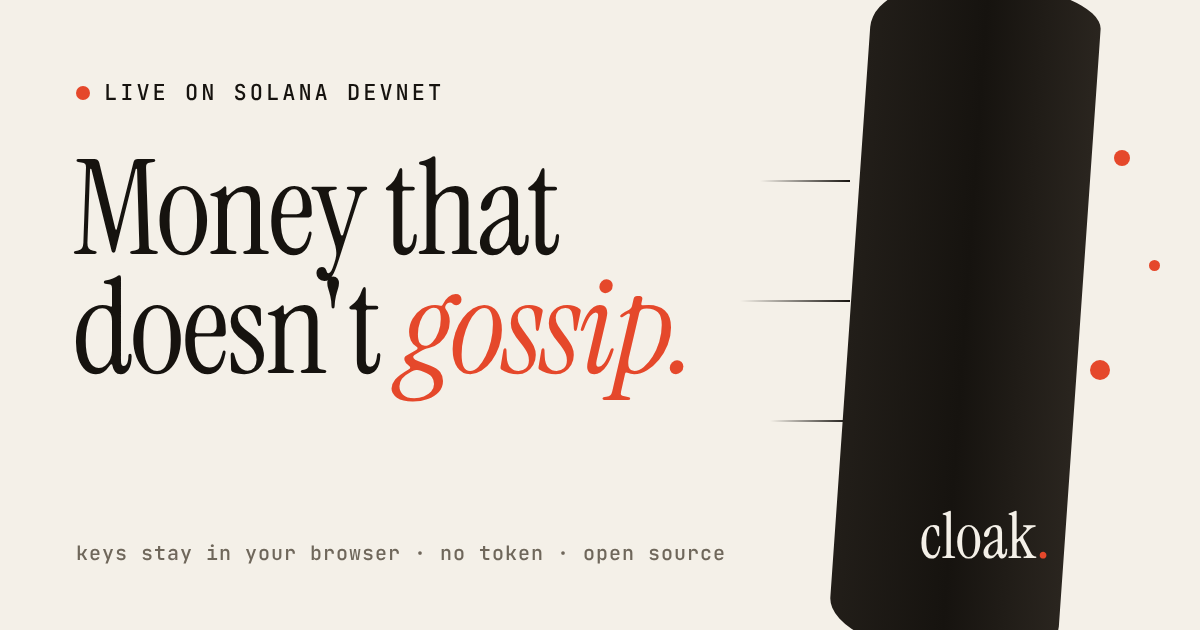
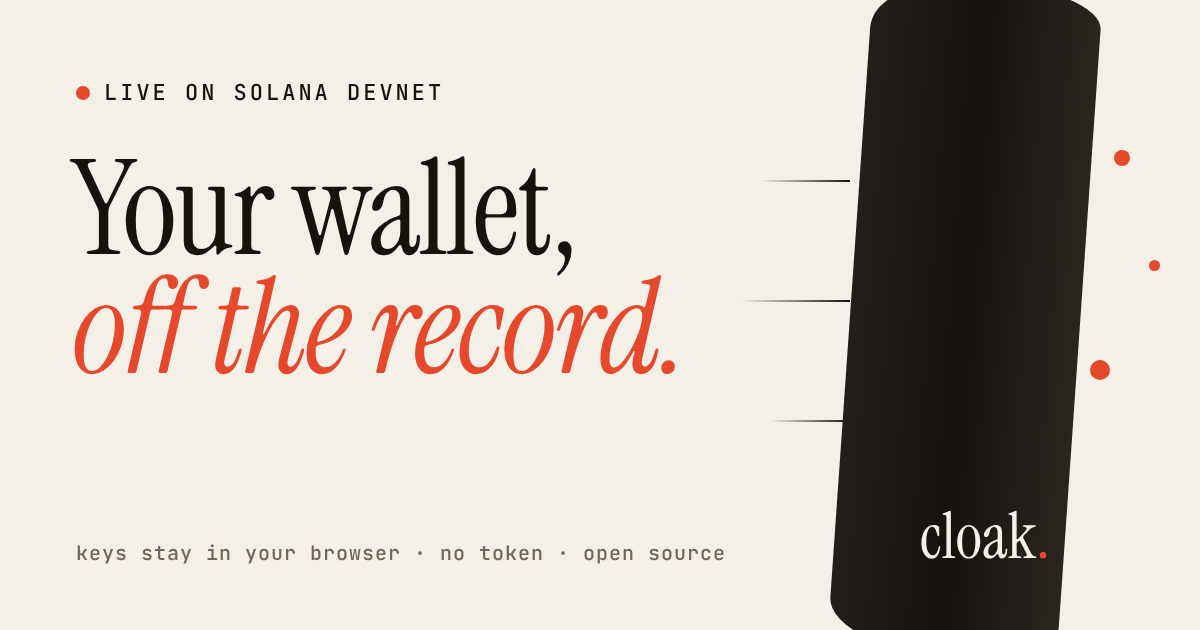
New headline, config.js for RPC/token/socials, Vercel + Railway deploy
- Headline: "Your wallet, off the record."
- assets/config.js: public settings (RPC link, pump.fun ticker + CA, socials)
- Token section, nav copy-CA pill and FAQ answer appear only when a CA is set
- vercel.json with security headers; server.js + package.json for Railway
  (serves only public files)

Claude-Session: https://claude.ai/code/session_01SfEs6pqLvnMbFA6HERFYTS

Changed region(s): [[0.0617, 0.2413, 0.5858, 0.6333]]

diff --git a/index.html b/index.html
@@ -3,10 +3,10 @@
 <head>
   <meta charset="utf-8" />
   <meta name="viewport" content="width=device-width, initial-scale=1" />
-  <title>Cloak — money that doesn't gossip</title>
+  <title>Cloak — your wallet, off the record</title>
   <meta name="description" content="Cloak is a pocket for your Solana wallet. Move funds in, walk out through addresses nobody has seen, and keep the receipts to yourself." />
   <meta name="theme-color" content="#f4f0e8" />
-  <meta property="og:title" content="Cloak — money that doesn't gossip" />
+  <meta property="og:title" content="Cloak — your wallet, off the record" />
   <meta property="og:description" content="A pocket for your Solana wallet. Keys stay in your browser. Try it free on devnet." />
   <meta property="og:image" content="https://jaypacino337.github.io/Cloak/assets/og.png" />
   <meta property="og:url" content="https://jaypacino337.github.io/Cloak/" />
@@ -28,6 +28,7 @@
         <a href="#fineprint">Fine print</a>
         <a href="#faq">FAQ</a>
       </nav>
+      <button class="btn btn-line btn-sm hidden" id="nav-token" data-copy-ca title="Copy contract address"></button>
       <a class="btn btn-ink btn-sm" href="app.html">Open Cloak <span class="arrow">→</span></a>
     </div>
   </header>
@@ -38,7 +39,7 @@
       <div class="wrap hero-grid">
         <div>
           <span class="kicker"><span class="blip"></span>Live on Solana devnet</span>
-          <h1>Money that doesn't <em>gossip.</em></h1>
+          <h1>Your wallet, <em>off the record.</em></h1>
           <p class="lede">
             On Solana, every payment tells the person you paid what's in your wallet and where it's been.
             Cloak gives your funds a quiet place to wait, then sends them on through addresses nobody has seen before.
@@ -47,7 +48,7 @@
             <a class="btn btn-signal" href="app.html">Try it free <span class="arrow">→</span></a>
             <a class="btn btn-line" href="#ritual">How it works</a>
           </div>
-          <p class="cta-note" style="margin-top:16px">No sign-up · no token · keys never leave your browser</p>
+          <p class="cta-note" style="margin-top:16px" id="hero-note">No sign-up · no token · keys never leave your browser</p>
         </div>
 
         <div class="art" aria-hidden="true">
@@ -237,6 +238,27 @@
       </div>
     </section>
 
+    <!-- TOKEN (shown only when config.js has a mint) -->
+    <section id="token" class="hidden" style="padding-top:20px">
+      <div class="wrap">
+        <div class="chapter now token-card reveal">
+          <div>
+            <span class="label">Community token</span>
+            <h2 class="serif" style="color:var(--paper)"><em data-ticker></em></h2>
+            <p>Launched on pump.fun. It's a community token, not a share of anything: it gives you no revenue, rights or special access, and the Cloak app works the same without it. Only buy what you can afford to lose.</p>
+          </div>
+          <div class="ca-box">
+            <span class="sub">contract address</span>
+            <code id="ca-text"></code>
+            <div class="row">
+              <button class="btn btn-signal btn-sm" data-copy-ca>Copy CA</button>
+              <a class="btn btn-line btn-sm" id="pump-link" target="_blank" rel="noopener" style="color:var(--paper);border-color:var(--paper)">View on pump.fun ↗</a>
+            </div>
+          </div>
+        </div>
+      </div>
+    </section>
+
     <!-- FAQ -->
     <section id="faq" style="padding-top:40px">
       <div class="wrap faq">
@@ -245,7 +267,7 @@
           <h2>Fair <em>questions.</em></h2>
         </div>
         <div>
-          <details><summary>Is there a Cloak token?</summary><p>No. There's no token, presale, airdrop or "early access" list. If someone offers you one, it isn't from this project.</p></details>
+          <details><summary>Is there a Cloak token?</summary><p id="faq-token">No. There's no token, presale, airdrop or "early access" list. If someone offers you one, it isn't from this project.</p></details>
           <details><summary>Can you see or freeze my funds?</summary><p>No. Cloak has no server, so there's nothing to see and no switch to flip. Your pocket key exists only inside your encrypted vault, which also means nobody can recover it if you lose your passphrase and your backup.</p></details>
           <details><summary>Why only devnet?</summary><p>Today the hop into your pocket is still visible on-chain. Running on mainnet before the shared pool and the audit exist would give people a false sense of safety. Devnet SOL is free, so you can try every feature without risk.</p></details>
           <details><summary>Which wallets work?</summary><p>Phantom on desktop, or Phantom's in-app browser on mobile. Turn on Testnet Mode in Phantom (Settings → Developer Settings) so your balance shows devnet SOL.</p></details>
@@ -271,13 +293,16 @@
           <a href="#ritual">How it works</a>
           <a href="#fineprint">Fine print</a>
           <a href="app.html">App</a>
-          <a href="https://github.com/jaypacino337/Cloak">Source</a>
+          <a href="https://github.com/jaypacino337/Cloak" data-link="github">Source</a>
+          <a class="hidden" data-link="x" target="_blank" rel="noopener">X</a>
+          <a class="hidden" data-link="telegram" target="_blank" rel="noopener">Telegram</a>
         </nav>
       </div>
       <div class="wordmark">cloak<b>.</b></div>
     </div>
   </footer>
 
+  <script src="assets/config.js"></script>
   <script src="assets/site.js"></script>
 </body>
 </html>

diff --git a/assets/site.js b/assets/site.js
@@ -10,6 +10,43 @@
   );
   document.querySelectorAll(".reveal").forEach((el) => io.observe(el));
 
+  // ---------- settings from config.js ----------
+  const cfg = window.CLOAK_CONFIG || {};
+  const mint = (cfg.token?.mint || "").trim();
+  const tokenTicker = (cfg.token?.ticker || "").trim().replace(/^\$/, "");
+  if (/^[1-9A-HJ-NP-Za-km-z]{32,44}$/.test(mint)) {
+    const label = tokenTicker ? `$${tokenTicker}` : "Token";
+    const short = `${mint.slice(0, 4)}…${mint.slice(-4)}`;
+    document.getElementById("token")?.classList.remove("hidden");
+    document.querySelectorAll("[data-ticker]").forEach((n) => (n.textContent = label));
+    const ca = document.getElementById("ca-text");
+    if (ca) ca.textContent = mint;
+    const pump = document.getElementById("pump-link");
+    if (pump) pump.href = `https://pump.fun/coin/${mint}`;
+    const note = document.getElementById("hero-note");
+    if (note) note.textContent = "No sign-up · no account · keys never leave your browser";
+    const nav = document.getElementById("nav-token");
+    if (nav) { nav.textContent = `${label} · ${short}`; nav.classList.remove("hidden"); }
+    const faq = document.getElementById("faq-token");
+    if (faq) faq.textContent = `Yes. ${label} is a community token launched on pump.fun, contract ${mint}. It isn't a share of anything and gives no revenue, rights or special access. The app works the same without it. Always check the contract address against this site before you buy.`;
+    document.querySelectorAll("[data-copy-ca]").forEach((b) =>
+      b.addEventListener("click", async () => {
+        const original = b.textContent;
+        try { await navigator.clipboard.writeText(mint); b.textContent = "Copied ✓"; }
+        catch { b.textContent = mint; }
+        setTimeout(() => (b.textContent = original), 1600);
+      })
+    );
+  } else if (mint) {
+    console.warn("config.js: token.mint doesn't look like a Solana address, so the token section stays hidden.");
+  }
+  for (const [key, url] of Object.entries(cfg.links || {})) {
+    document.querySelectorAll(`[data-link="${key}"]`).forEach((a) => {
+      if (/^https:\/\//.test(url || "")) { a.href = url; a.classList.remove("hidden"); }
+      else if (key !== "github") a.classList.add("hidden");
+    });
+  }
+
   // ---------- ticker ----------
   const ticker = document.getElementById("ticker");
   if (ticker) {

diff --git a/server.js b/server.js
@@ -1,0 +1,55 @@
+// Tiny zero-dependency static server, used on Railway (or any Node host).
+// Vercel and GitHub Pages serve the files directly and don't need this.
+const http = require("http");
+const fs = require("fs");
+const path = require("path");
+
+const ROOT = __dirname;
+const PORT = process.env.PORT || 3000;
+const TYPES = {
+  ".html": "text/html; charset=utf-8",
+  ".css": "text/css; charset=utf-8",
+  ".js": "text/javascript; charset=utf-8",
+  ".json": "application/json; charset=utf-8",
+  ".svg": "image/svg+xml",
+  ".png": "image/png",
+  ".ico": "image/x-icon",
+};
+// Only these get served; everything else (server.js, package.json, .git…) is a 404.
+const PUBLIC = new Set(["index.html", "app.html", "assets"]);
+const SECURITY = {
+  "X-Content-Type-Options": "nosniff",
+  "X-Frame-Options": "DENY",
+  "Referrer-Policy": "no-referrer",
+  "Permissions-Policy": "camera=(), microphone=(), geolocation=()",
+};
+
+http
+  .createServer((req, res) => {
+    let urlPath;
+    try {
+      urlPath = decodeURIComponent(new URL(req.url, "http://x").pathname);
+    } catch {
+      res.writeHead(400).end("Bad request");
+      return;
+    }
+    if (urlPath === "/") urlPath = "/index.html";
+    if (urlPath === "/app") urlPath = "/app.html";
+    const file = path.normalize(path.join(ROOT, urlPath));
+    const top = path.relative(ROOT, file).split(path.sep)[0];
+    if (!file.startsWith(ROOT + path.sep) || !PUBLIC.has(top)) {
+      res.writeHead(404, SECURITY).end("Not found");
+      return;
+    }
+    fs.readFile(file, (err, data) => {
+      if (err) {
+        res.writeHead(404, SECURITY).end("Not found");
+        return;
+      }
+      const type = TYPES[path.extname(file)] || "application/octet-stream";
+      const cache = file.includes(`${path.sep}assets${path.sep}`) && !file.endsWith("config.js") ? "public, max-age=3600" : "no-cache";
+      res.writeHead(200, { ...SECURITY, "Content-Type": type, "Cache-Control": cache });
+      res.end(data);
+    });
+  })
+  .listen(PORT, () => console.log(`Cloak running on port ${PORT}`));

diff --git a/assets/app.js b/assets/app.js
@@ -13,14 +13,19 @@
 
   const CLUSTER = "devnet";
   // Optional ?rpc=https://your-node for people who'd rather not use the public endpoint.
-  const RPC = (() => {
-    const custom = new URLSearchParams(location.search).get("rpc");
+  // Otherwise config.js rpcUrl (e.g. a Helius devnet link), otherwise the public devnet node.
+  const validUrl = (u) => {
     try {
-      if (custom && /^https?:$/.test(new URL(custom).protocol)) return custom;
-    } catch {}
-    return clusterApiUrl(CLUSTER);
-  })();
-  const CUSTOM_RPC = RPC !== clusterApiUrl(CLUSTER);
+      return !!u && /^https?:$/.test(new URL(u).protocol);
+    } catch {
+      return false;
+    }
+  };
+  const queryRpc = new URLSearchParams(location.search).get("rpc");
+  const configRpc = (window.CLOAK_CONFIG?.rpcUrl || "").trim();
+  const RPC = validUrl(queryRpc) ? queryRpc : validUrl(configRpc) ? configRpc : clusterApiUrl(CLUSTER);
+  // Only a ?rpc= override may point somewhere other than devnet (e.g. a local validator).
+  const CUSTOM_RPC = RPC === queryRpc;
   const STORAGE_KEY = "cloak.vault.v1";
   const PBKDF2_ITERATIONS = 310000;
   const FEE_LAMPORTS = 5000;
@@ -612,5 +617,6 @@
   }
 
   if (CUSTOM_RPC) log(`Using custom RPC ${RPC}`);
+  else if (RPC !== clusterApiUrl(CLUSTER)) log("Using your RPC from config.js");
   render();
 })();

diff --git a/assets/config.js b/assets/config.js
@@ -1,0 +1,24 @@
+/* ============================================================
+   CLOAK SETTINGS: the only file you need to edit.
+   Everything here is PUBLIC (anyone can read it in their browser).
+   Never put a private key or seed phrase in this file.
+   ============================================================ */
+window.CLOAK_CONFIG = {
+  // Solana RPC link (e.g. from Helius, QuickNode or Triton). Leave empty to use the free public devnet node.
+  // Use a DEVNET link, and lock the key to your domain in your RPC dashboard, because this value is public.
+  rpcUrl: "",
+
+  // Your pump.fun token. Leave empty and the site says "no token".
+  // mint = the contract address (CA) pump.fun shows after you launch. It's public, so it's safe here.
+  token: {
+    ticker: "", // e.g. "CLOAK"
+    mint: "", // e.g. "7xKq...pump"
+  },
+
+  // Social links. Leave any empty to hide it.
+  links: {
+    x: "", // e.g. "https://x.com/yourhandle"
+    telegram: "", // e.g. "https://t.me/yourgroup"
+    github: "https://github.com/jaypacino337/Cloak",
+  },
+};

diff --git a/assets/styles.css b/assets/styles.css
@@ -294,3 +294,10 @@ input:focus, select:focus { outline: 3px solid var(--signal-soft); outline-offse
 .toast.show { transform: translate(-50%, 0); }
 .toast.error { background: var(--signal); }
 .hidden { display: none !important; }
+
+/* token card */
+.token-card { display: grid; grid-template-columns: 1.2fr 1fr; gap: 36px; align-items: center; padding: 40px; }
+@media (max-width: 860px) { .token-card { grid-template-columns: 1fr; padding: 26px; } }
+.token-card h2 { margin: 10px 0 12px; }
+.ca-box { background: #24201b; border: 1px solid #3a342c; border-radius: 12px; padding: 20px; }
+.ca-box code { display: block; margin-top: 8px; font-size: .95rem; word-break: break-all; color: var(--paper); }

diff --git a/app.html b/app.html
@@ -141,6 +141,7 @@
   </main>
 
   <div class="toast" id="toast" role="status" aria-live="polite"></div>
+  <script src="assets/config.js"></script>
   <script src="assets/app.js"></script>
 </body>
 </html>

diff --git a/README.md b/README.md
@@ -1,6 +1,6 @@
 # Cloak
 
-**Money that doesn't gossip.** Cloak is a pocket for your Solana wallet. You move funds in, then leave
+**Your wallet, off the record.** Cloak is a pocket for your Solana wallet. You move funds in, then leave
 through addresses nobody has seen before, and your keys never leave the browser.
 
 **Live:** https://jaypacino337.github.io/Cloak/  ·  **App:** https://jaypacino337.github.io/Cloak/app.html
@@ -33,6 +33,31 @@ python3 -m http.server 8080
 # open http://localhost:8080
 ```
 
+## Settings: `assets/config.js`
+
+This is the only file you need to edit. Everything in it is **public**.
+
+| Setting | What to put | Example |
+|---|---|---|
+| `rpcUrl` | A **devnet** RPC link from Helius, QuickNode etc. Empty = free public node. Lock the key to your domain in the provider's dashboard. | `https://devnet.helius-rpc.com/?api-key=…` |
+| `token.ticker` | Your pump.fun ticker | `CLOAK` |
+| `token.mint` | The contract address (CA) pump.fun gives you | `7xKq…pump` |
+| `links.x` / `links.telegram` | Your socials | `https://x.com/…` |
+
+Leave `token.mint` empty and the site says there's no token. Fill it in and a token section, a copy-CA
+button in the nav and a pump.fun link show up.
+
+> **Never put a private key or seed phrase anywhere in this repo, in Vercel, or in Railway.** The site
+> doesn't need one. Launch the token on pump.fun with your Phantom wallet, then paste only the public CA here.
+
 ## Deploy
 
-Every push to `claude/cloak-site` deploys to GitHub Pages through `.github/workflows/pages.yml`.
+**Vercel (easiest):** vercel.com/new → import `jaypacino337/Cloak` → Framework preset **Other** → Deploy.
+You don't need any build command or environment variables.
+
+**Railway:** railway.com/new → Deploy from GitHub repo → `jaypacino337/Cloak`. It runs `npm start`
+(`server.js`, no dependencies). Then Settings → Networking → **Generate Domain**.
+
+**GitHub Pages:** Settings → Pages → Source: **GitHub Actions**. After that, every push deploys automatically.
+
+Every push to `claude/cloak-site` redeploys on all three.
